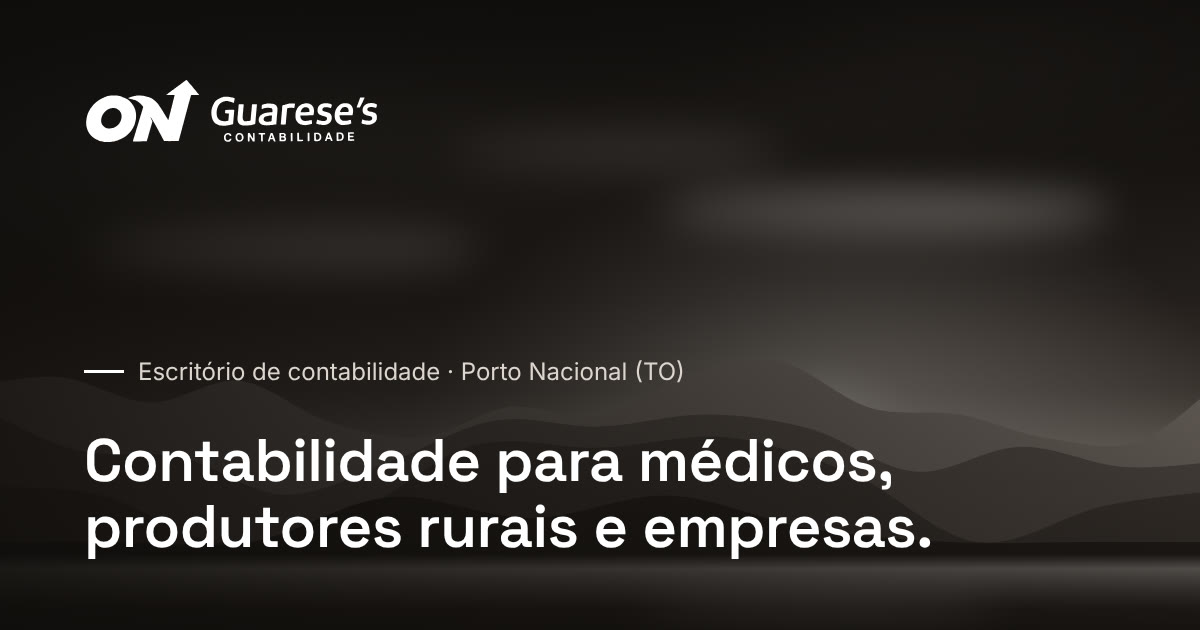
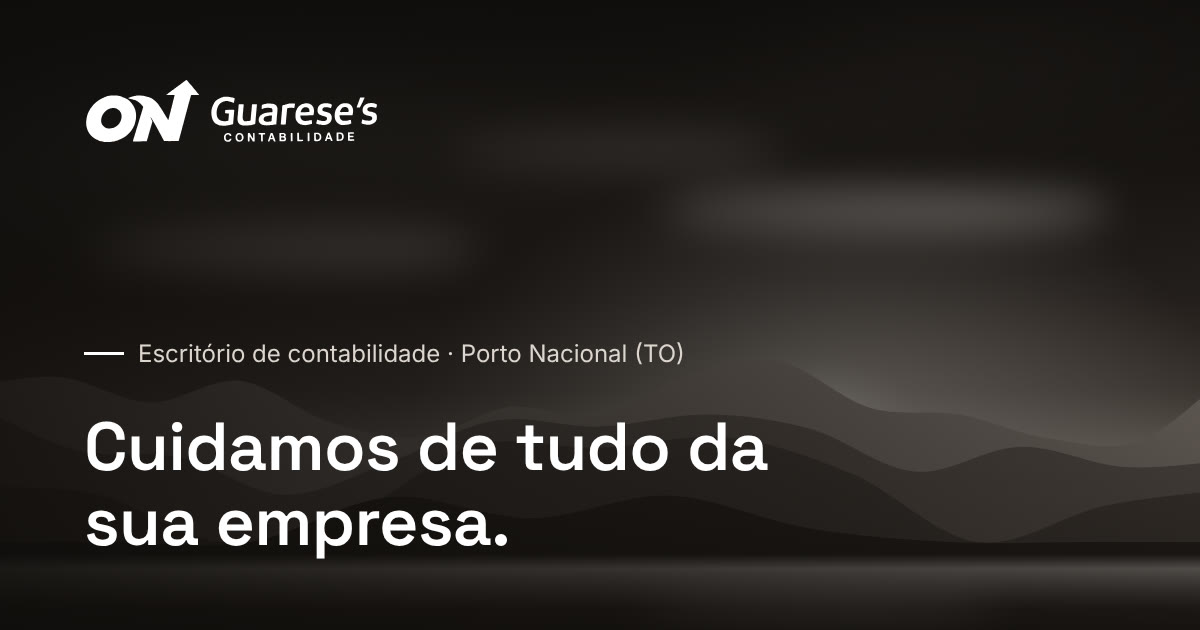
Site: nova frase principal "Cuidamos de tudo da sua empresa."
- Título do topo trocado por uma frase curta que passa o atendimento
  completo; o texto de apoio lista os serviços (abertura, contabilidade,
  impostos, folha e consultoria) e o público (empresas, médicos e
  produtores rurais). Título maior por ser mais curto.
- Imagem de compartilhamento com a nova frase (e com a fonte certa, que
  passou para public/fontes no Vite). Teste atualizado.

Claude-Session: https://claude.ai/code/session_01UuFGC516atgdevzuV1X4wR

Changed region(s): [[0.0617, 0.6635, 0.7708, 0.9048], [0.0617, 0.5429, 0.5858, 0.6032]]

diff --git a/site/index.html b/site/index.html
@@ -85,8 +85,8 @@
       <div class="largura heroi-grade">
         <div class="heroi-texto">
           <p class="rotulo" data-revelar>Escritório de contabilidade · Porto Nacional (TO)</p>
-          <h1 data-revelar>Contabilidade para médicos, produtores rurais e empresas de Porto Nacional.</h1>
-          <p class="heroi-sub" data-revelar>Cuidamos da contabilidade, dos impostos e da folha de pagamento. Você acompanha tudo pelo portal do cliente e fala direto com os contadores pelo WhatsApp.</p>
+          <h1 data-revelar>Cuidamos de tudo da sua empresa.</h1>
+          <p class="heroi-sub" data-revelar>Abertura, contabilidade, impostos, folha de pagamento e consultoria para empresas, médicos e produtores rurais. Você acompanha tudo pelo portal e fala direto com os contadores.</p>
           <div class="heroi-botoes" data-revelar>
             <a class="botao botao-principal botao-grande" href="#contato">Pedir uma proposta</a>
             <a class="botao botao-contorno botao-grande" href="https://portal.onguaresescontabilidade.com.br">Já sou cliente: acessar o portal

diff --git a/site/css/site.css b/site/css/site.css
@@ -412,8 +412,9 @@ html.escuro .icone-lua {
   background: var(--marca);
 }
 .heroi h1 {
-  font-size: clamp(2.15rem, 4.4vw, 3.5rem);
-  max-width: 19ch;
+  font-size: clamp(2.5rem, 5.4vw, 4.4rem);
+  max-width: 14ch;
+  line-height: 1.05;
   margin-bottom: var(--e3);
 }
 .heroi-sub {
@@ -1187,7 +1188,7 @@ html.escuro .campo select option {
     background-position: center, 40% 70%, center;
   }
   .heroi h1 {
-    font-size: clamp(1.9rem, 8.2vw, 2.4rem);
+    font-size: clamp(2.3rem, 11vw, 3rem);
   }
   .heroi-botoes .botao {
     width: 100%;
